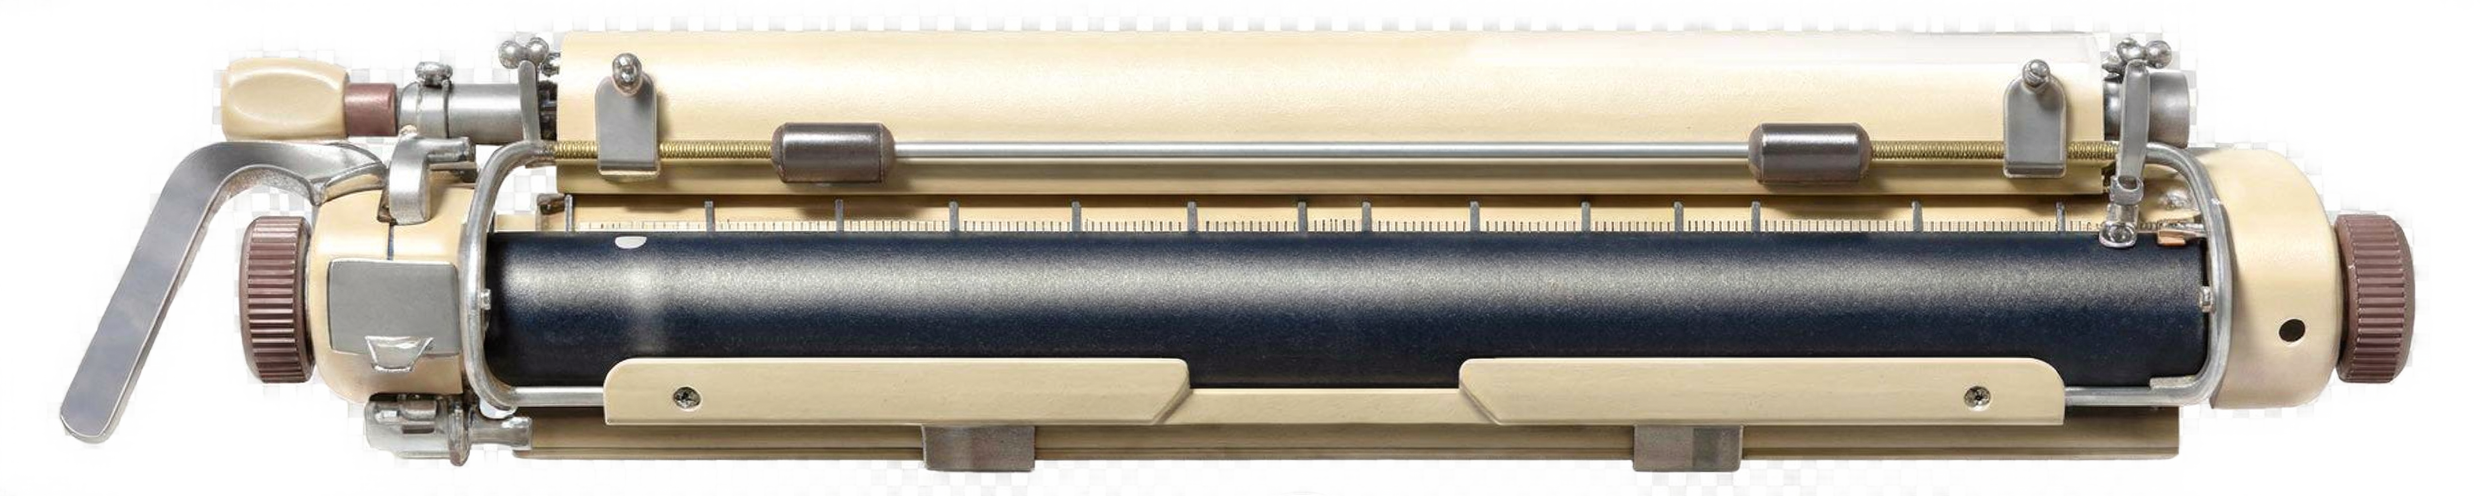
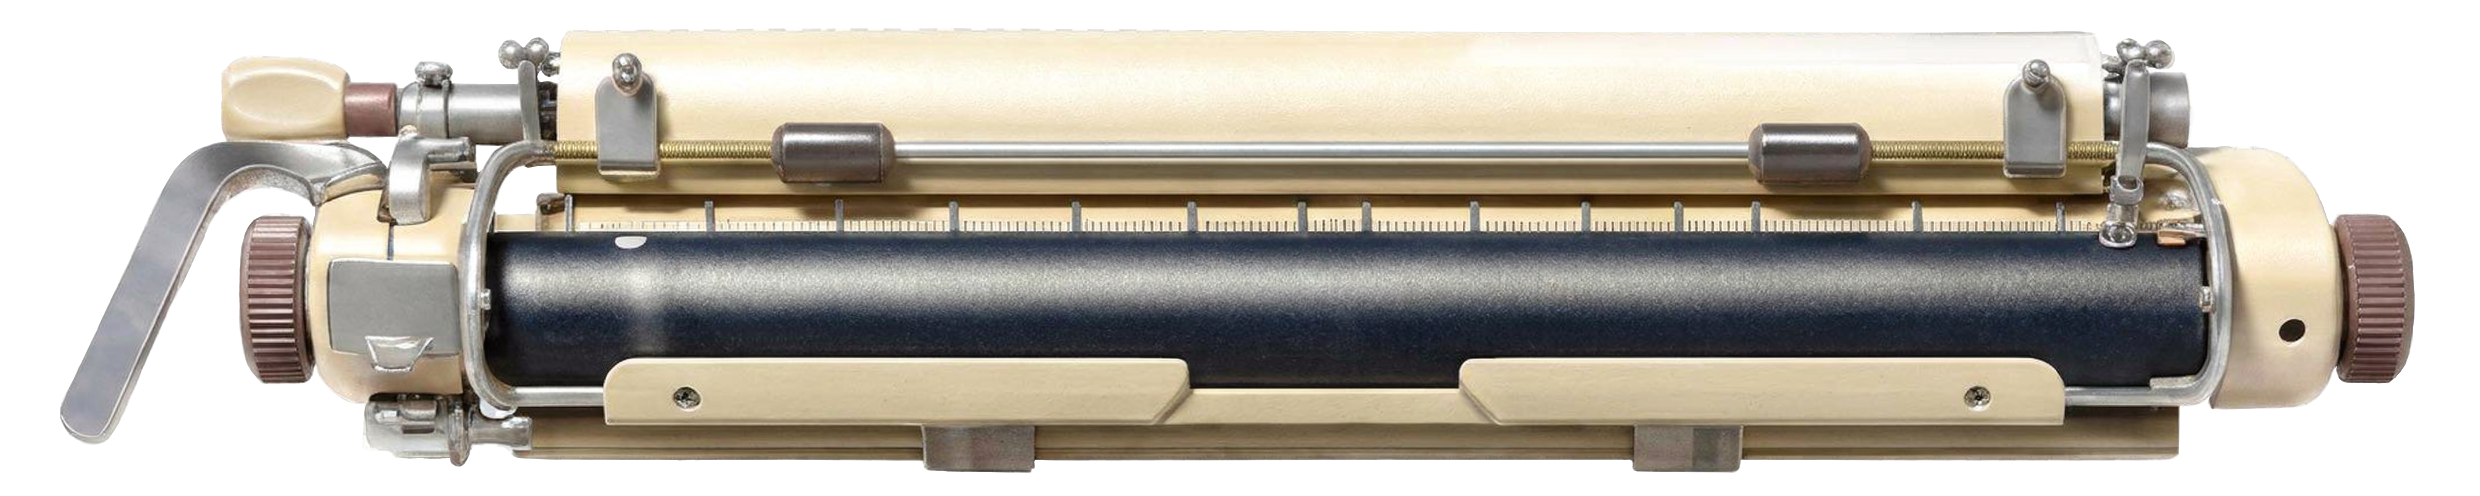
Improved image asset quality, added smooth zoom in effect

diff --git a/src/App.tsx b/src/App.tsx
@@ -1,4 +1,14 @@
-import { ChangeEvent, ClipboardEvent, CSSProperties, KeyboardEvent, useEffect, useMemo, useRef, useState } from "react";
+import {
+  ChangeEvent,
+  ClipboardEvent,
+  CSSProperties,
+  KeyboardEvent,
+  PointerEvent,
+  useEffect,
+  useMemo,
+  useRef,
+  useState,
+} from "react";
 
 const FIGMA = {
   frameWidth: 4621,
@@ -6,7 +16,7 @@ const FIGMA = {
   carriageRightX: 1367,
   carriageLeftX: 69,
   maxPaperHeight: 1852,
-  initialPaperHeight: 560,
+  initialPaperHeight: 430,
   lineHeight: 39,
   typeSize: 33,
   paperBottom: 2607,
@@ -19,9 +29,16 @@ const FIGMA = {
 
 const maxAdvance = FIGMA.carriageRightX - FIGMA.carriageLeftX;
 const maxFeed = FIGMA.maxPaperHeight - FIGMA.initialPaperHeight;
+const initialZoom = 1;
+const defaultZoom = 1.5;
 const fontSpec = `${FIGMA.typeSize}px "Special Elite", "Courier New", monospace`;
 const slugTransitionMs = 90;
-const lineSpace = FIGMA.lineHeight - FIGMA.typeSize;
+const lineAdvances: Record<LineSpacing, number> = {
+  0: 24,
+  1: FIGMA.lineHeight,
+  1.5: FIGMA.lineHeight * 1.5,
+  2: FIGMA.lineHeight * 2,
+};
 
 const ASSETS = {
   platen: "/assets/platen.png",
@@ -52,6 +69,11 @@ type LineBreak = {
   afterLineIndex: number;
   spacing: LineSpacing;
   advance: number;
+};
+type CarriageDrag = {
+  pointerId: number;
+  startClientX: number;
+  startAdvance: number;
 };
 type SlugConfig = {
   id: number;
@@ -102,7 +124,7 @@ function shouldPlayReturnSound(line: string, cursorColumn: number): boolean {
 }
 
 function getLineAdvance(spacing: LineSpacing): number {
-  return FIGMA.typeSize + lineSpace * spacing;
+  return lineAdvances[spacing];
 }
 
 function getLineTops(lineBreaks: LineBreak[], lineCount: number): number[] {
@@ -113,6 +135,15 @@ function getLineTops(lineBreaks: LineBreak[], lineCount: number): number[] {
   }
 
   return tops;
+}
+
+function getLinePrefix(line: string, column: number): string {
+  if (column <= line.length) return line.slice(0, column);
+  return line.padEnd(column, " ");
+}
+
+function clamp(value: number, min: number, max: number): number {
+  return Math.min(Math.max(value, min), max);
 }
 
 function useSpecialEliteMeasure() {
@@ -148,13 +179,15 @@ function App() {
   const [activeSlugId, setActiveSlugId] = useState<number | null>(null);
   const [isSlugPressed, setIsSlugPressed] = useState(false);
   const [stageScale, setStageScale] = useState(1);
-  const [zoom, setZoom] = useState(1);
+  const [zoom, setZoom] = useState(initialZoom);
   const [lineSpacing, setLineSpacing] = useState<LineSpacing>(1);
   const [cursorColumn, setCursorColumn] = useState(0);
+  const [isCarriageDragging, setIsCarriageDragging] = useState(false);
   const releaseTimeoutRef = useRef<number | null>(null);
   const linesRef = useRef(lines);
   const lineBreaksRef = useRef(lineBreaks);
   const cursorColumnRef = useRef(cursorColumn);
+  const carriageDragRef = useRef<CarriageDrag | null>(null);
   const marginDingedRef = useRef(false);
   const keyPressAudioRef = useRef<HTMLAudioElement[]>([]);
   const dingAudioRef = useRef<HTMLAudioElement | null>(null);
@@ -166,7 +199,7 @@ function App() {
   const lineTops = useMemo(() => getLineTops(lineBreaks, lines.length), [lineBreaks, lines.length]);
   const currentLineIndex = lines.length - 1;
   const currentLine = lines[currentLineIndex] ?? "";
-  const currentAdvance = Math.min(measure(currentLine.slice(0, cursorColumn)), maxAdvance);
+  const currentAdvance = Math.min(measure(getLinePrefix(currentLine, cursorColumn)), maxAdvance);
   const carriageX = FIGMA.carriageRightX - currentAdvance;
   const feed = Math.min(lineTops[currentLineIndex] ?? 0, maxFeed);
   const paperTop = FIGMA.paperBottom - (FIGMA.initialPaperHeight + feed);
@@ -175,6 +208,11 @@ function App() {
 
   useEffect(() => {
     inputRef.current?.focus();
+  }, []);
+
+  useEffect(() => {
+    const zoomFrame = window.requestAnimationFrame(() => setZoom(defaultZoom));
+    return () => window.cancelAnimationFrame(zoomFrame);
   }, []);
 
   useEffect(() => {
@@ -250,6 +288,39 @@ function App() {
     next[next.length - 1] = line;
     setDocumentLines(next);
     setDocumentCursorColumn(nextCursorColumn);
+  };
+
+  const getClosestCursorColumn = (line: string, targetAdvance: number) => {
+    let bestColumn = 0;
+    let bestDistance = Math.abs(targetAdvance);
+    const maxColumns = 160;
+
+    for (let column = 1; column <= maxColumns; column += 1) {
+      const advance = measure(getLinePrefix(line, column));
+      const distance = Math.abs(advance - targetAdvance);
+
+      if (distance < bestDistance) {
+        bestColumn = column;
+        bestDistance = distance;
+      }
+
+      if (advance > maxAdvance && advance > targetAdvance) break;
+    }
+
+    return bestColumn;
+  };
+
+  const fillCurrentLineToCursor = () => {
+    const previous = linesRef.current;
+    const index = previous.length - 1;
+    const line = previous[index] ?? "";
+    const cursor = cursorColumnRef.current;
+
+    if (cursor <= line.length) return;
+
+    const next = [...previous];
+    next[index] = line.padEnd(cursor, " ");
+    setDocumentLines(next);
   };
 
   const playAudio = (audio: HTMLAudioElement | null | undefined) => {
@@ -331,10 +402,11 @@ function App() {
     const index = previous.length - 1;
     const line = previous[index] ?? "";
     const cursor = cursorColumnRef.current;
-    const candidate = `${line.slice(0, cursor)}${character}${line.slice(cursor + 1)}`;
+    const sourceLine = cursor > line.length ? line.padEnd(cursor, " ") : line;
+    const candidate = `${sourceLine.slice(0, cursor)}${character}${sourceLine.slice(cursor + 1)}`;
     const nextCursor = cursor + 1;
 
-    if (measure(candidate.slice(0, nextCursor)) > maxAdvance) {
+    if (measure(getLinePrefix(candidate, nextCursor)) > maxAdvance) {
       if (!marginDingedRef.current) playDing();
       marginDingedRef.current = true;
       setNotice("margin");
@@ -399,6 +471,47 @@ function App() {
     }
 
     addCharacter(" ");
+  };
+
+  const startCarriageDrag = (event: PointerEvent<HTMLDivElement>) => {
+    if ((event.target as Element).closest("[data-page-surface]")) return;
+
+    event.preventDefault();
+    event.currentTarget.setPointerCapture(event.pointerId);
+    carriageDragRef.current = {
+      pointerId: event.pointerId,
+      startClientX: event.clientX,
+      startAdvance: measure(getLinePrefix(linesRef.current[linesRef.current.length - 1] ?? "", cursorColumnRef.current)),
+    };
+    setIsCarriageDragging(true);
+    inputRef.current?.focus();
+  };
+
+  const updateCarriageDrag = (event: PointerEvent<HTMLDivElement>) => {
+    const drag = carriageDragRef.current;
+    if (!drag || drag.pointerId !== event.pointerId) return;
+
+    event.preventDefault();
+    const effectiveScale = stageScale * zoom || 1;
+    const targetAdvance = clamp(drag.startAdvance - (event.clientX - drag.startClientX) / effectiveScale, 0, maxAdvance);
+    const line = linesRef.current[linesRef.current.length - 1] ?? "";
+    setDocumentCursorColumn(getClosestCursorColumn(line, targetAdvance));
+    marginDingedRef.current = false;
+    setNotice("ready");
+  };
+
+  const finishCarriageDrag = (event: PointerEvent<HTMLDivElement>) => {
+    const drag = carriageDragRef.current;
+    if (!drag || drag.pointerId !== event.pointerId) return;
+
+    if (event.currentTarget.hasPointerCapture(event.pointerId)) {
+      event.currentTarget.releasePointerCapture(event.pointerId);
+    }
+
+    carriageDragRef.current = null;
+    setIsCarriageDragging(false);
+    fillCurrentLineToCursor();
+    inputRef.current?.focus();
   };
 
   const handleZoomChange = (event: ChangeEvent<HTMLSelectElement>) => {
@@ -494,10 +607,11 @@ function App() {
         <label>
           Zoom
           <select value={zoom} onChange={handleZoomChange}>
-            <option value={1}>Default</option>
-            <option value={1.25}>125%</option>
-            <option value={1.5}>150%</option>
-            <option value={1.75}>175%</option>
+            <option value={1}>50%</option>
+            <option value={1.25}>75%</option>
+            <option value={1.5}>Default</option>
+            <option value={1.75}>125%</option>
+            <option value={2}>150%</option>
           </select>
         </label>
         <label>
@@ -517,13 +631,20 @@ function App() {
       <section ref={viewportRef} className="machine-viewport" aria-label="Interactive typewriter">
         <div className="machine-stage" style={{ transform: `translateX(-50%) scale(${stageScale * zoom})` }}>
           <div
-            className={`carriage ${notice !== "ready" ? "carriage-alert" : ""}`}
+            className={`carriage ${notice !== "ready" ? "carriage-alert" : ""} ${
+              isCarriageDragging ? "is-dragging" : ""
+            }`}
             style={{ transform: `translate3d(${carriageX}px, 0, 0)` }}
+            onPointerDown={startCarriageDrag}
+            onPointerMove={updateCarriageDrag}
+            onPointerUp={finishCarriageDrag}
+            onPointerCancel={finishCarriageDrag}
           >
             <img className="figma-asset platen" src={ASSETS.platen} alt="" draggable="false" />
 
             <div
               className="paper"
+              data-page-surface
               style={{
                 top: paperTop,
                 height: FIGMA.paperBottom - paperTop,
@@ -535,6 +656,7 @@ function App() {
 
             <div
               className="typed-paper-text"
+              data-page-surface
               style={{
                 top: textTop,
               }}

diff --git a/src/App.css b/src/App.css
@@ -113,6 +113,7 @@ select {
   width: 4621px;
   height: 2894px;
   transform-origin: bottom center;
+  transition: transform 520ms cubic-bezier(0.16, 1, 0.3, 1);
 }
 
 .figma-asset {
@@ -130,7 +131,14 @@ select {
   width: 3098px;
   height: 2607px;
   transition: transform 110ms ease-out;
+  cursor: grab;
+  touch-action: none;
   will-change: transform;
+}
+
+.carriage.is-dragging {
+  cursor: grabbing;
+  transition: none;
 }
 
 .carriage-alert {
@@ -147,6 +155,7 @@ select {
 .paper {
   position: absolute;
   left: 836px;
+  cursor: default;
   border-radius: 0 0 10px 10px;
   background:
     linear-gradient(180deg, rgba(255, 252, 245, 0.2), rgba(232, 219, 197, 0) 28%),
@@ -186,6 +195,7 @@ select {
   white-space: pre-wrap;
   word-break: normal;
   overflow-wrap: normal;
+  cursor: text;
   transition: top 130ms ease-out;
 }
 